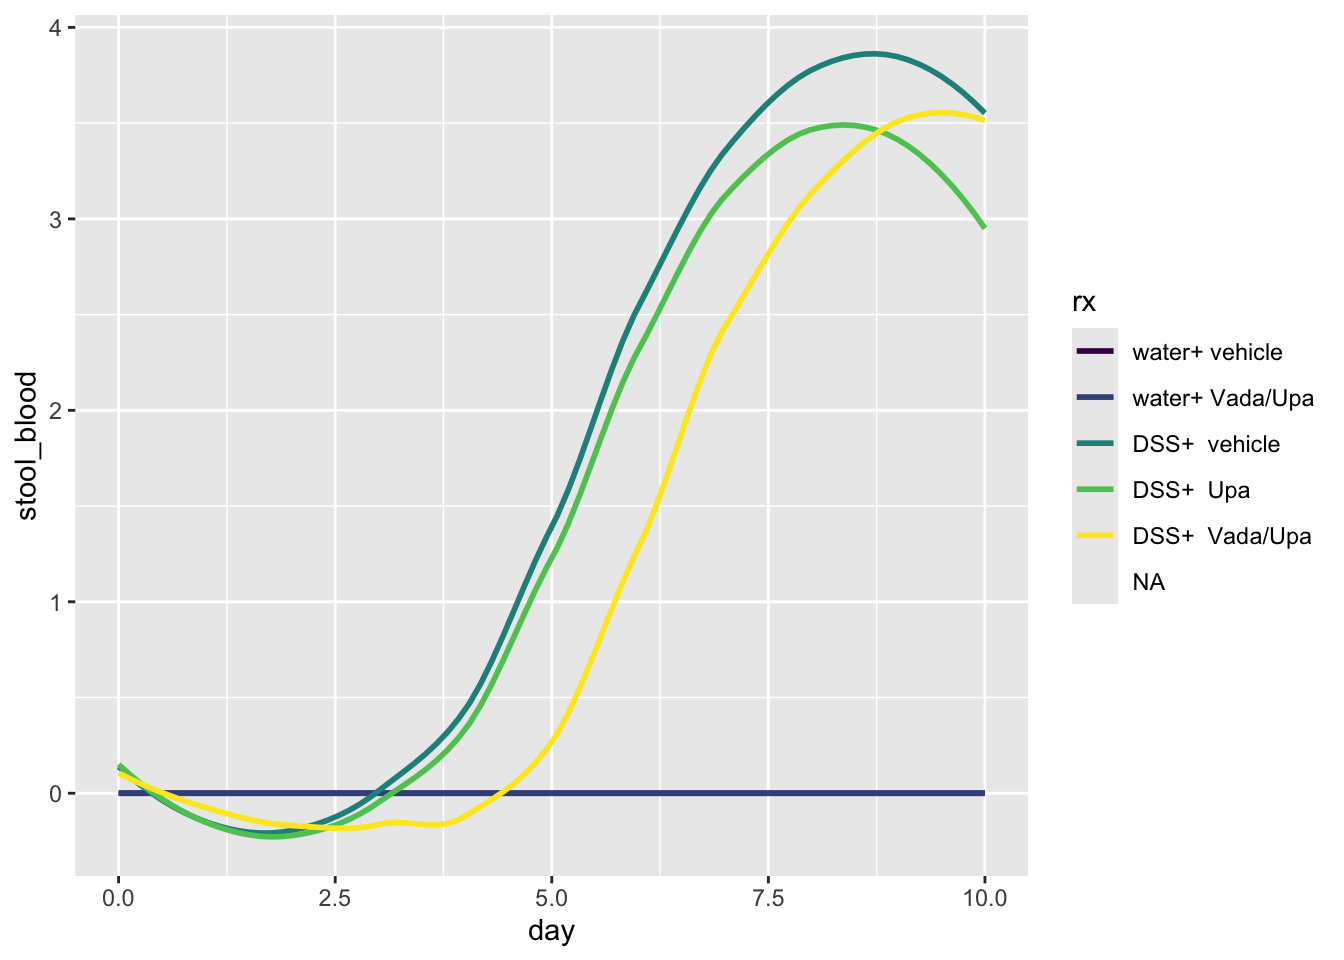
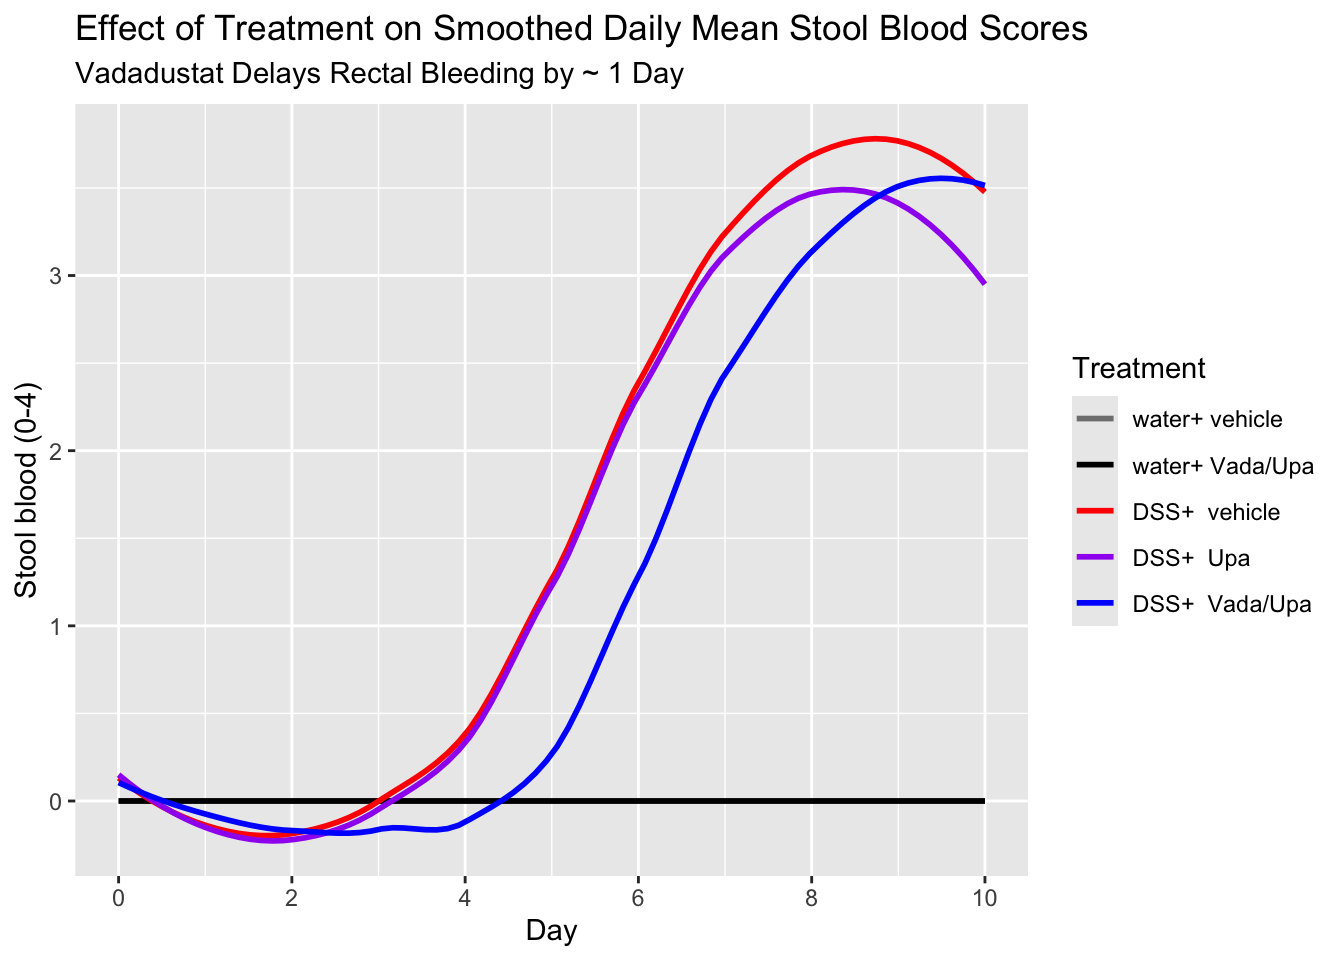
scale updates on laptop

diff --git a/upa-vada-mice2.html b/upa-vada-mice2.html
@@ -174,7 +174,7 @@ The following object is masked from 'package:readr':
 <span id="cb7-6"><a href="#cb7-6" aria-hidden="true" tabindex="-1"></a>                     <span class="st">"DSS+  Vada/Upa"</span>))) <span class="sc">|&gt;</span> </span>
 <span id="cb7-7"><a href="#cb7-7" aria-hidden="true" tabindex="-1"></a>  <span class="fu">rename</span>(<span class="at">ear_tag =</span> mouse)</span>
 <span id="cb7-8"><a href="#cb7-8" aria-hidden="true" tabindex="-1"></a></span>
-<span id="cb7-9"><a href="#cb7-9" aria-hidden="true" tabindex="-1"></a>dat_daily <span class="ot">&lt;-</span> readxl<span class="sc">::</span><span class="fu">read_xlsx</span>(<span class="st">"BW blood sheet.xlsx"</span>) <span class="sc">|&gt;</span> </span>
+<span id="cb7-9"><a href="#cb7-9" aria-hidden="true" tabindex="-1"></a>dat_daily <span class="ot">&lt;-</span> readxl<span class="sc">::</span><span class="fu">read_xlsx</span>(<span class="st">"BW blood data daily.xlsx"</span>) <span class="sc">|&gt;</span> </span>
 <span id="cb7-10"><a href="#cb7-10" aria-hidden="true" tabindex="-1"></a>  janitor<span class="sc">::</span><span class="fu">clean_names</span>() <span class="sc">|&gt;</span> </span>
 <span id="cb7-11"><a href="#cb7-11" aria-hidden="true" tabindex="-1"></a>  <span class="fu">mutate</span>(<span class="at">mouse =</span> <span class="fu">as.factor</span>(mice)) <span class="sc">|&gt;</span> </span>
 <span id="cb7-12"><a href="#cb7-12" aria-hidden="true" tabindex="-1"></a>  <span class="fu">mutate</span>(<span class="at">ear_tag =</span> <span class="fu">as.factor</span>(ear_tag)) <span class="sc">|&gt;</span> </span>
@@ -229,7 +229,14 @@ The following object is masked from 'package:readr':
 <span id="cb10-3"><a href="#cb10-3" aria-hidden="true" tabindex="-1"></a>             <span class="at">group =</span> mouse, <span class="at">color =</span> rx)) <span class="sc">+</span></span>
 <span id="cb10-4"><a href="#cb10-4" aria-hidden="true" tabindex="-1"></a>  <span class="co">#geom_line() +</span></span>
 <span id="cb10-5"><a href="#cb10-5" aria-hidden="true" tabindex="-1"></a>  <span class="co">#geom_point() +</span></span>
-<span id="cb10-6"><a href="#cb10-6" aria-hidden="true" tabindex="-1"></a>  <span class="fu">geom_smooth</span>(<span class="fu">aes</span>(<span class="at">group =</span> rx), <span class="at">se =</span> <span class="cn">FALSE</span>)</span></code><button title="Copy to Clipboard" class="code-copy-button"><i class="bi"></i></button></pre></div>
+<span id="cb10-6"><a href="#cb10-6" aria-hidden="true" tabindex="-1"></a>  <span class="fu">geom_smooth</span>(<span class="fu">aes</span>(<span class="at">group =</span> rx), <span class="at">se =</span> <span class="cn">FALSE</span>) <span class="sc">+</span></span>
+<span id="cb10-7"><a href="#cb10-7" aria-hidden="true" tabindex="-1"></a>  <span class="fu">scale_color_manual</span>(<span class="at">values =</span> <span class="fu">c</span>(<span class="st">"gray50"</span>, <span class="st">"black"</span>, <span class="st">"red"</span>, <span class="st">"purple"</span>, <span class="st">"blue"</span>)) <span class="sc">+</span></span>
+<span id="cb10-8"><a href="#cb10-8" aria-hidden="true" tabindex="-1"></a>  <span class="fu">scale_x_continuous</span>(<span class="at">breaks =</span> <span class="fu">seq</span>(<span class="dv">0</span>,<span class="dv">10</span>, <span class="at">by=</span><span class="dv">2</span>)) <span class="sc">+</span></span>
+<span id="cb10-9"><a href="#cb10-9" aria-hidden="true" tabindex="-1"></a>  <span class="fu">labs</span>(<span class="at">color =</span> <span class="st">"Treatment"</span>,</span>
+<span id="cb10-10"><a href="#cb10-10" aria-hidden="true" tabindex="-1"></a>       <span class="at">x =</span> <span class="st">"Day"</span>,</span>
+<span id="cb10-11"><a href="#cb10-11" aria-hidden="true" tabindex="-1"></a>       <span class="at">y =</span> <span class="st">"Stool blood (0-4)"</span>,</span>
+<span id="cb10-12"><a href="#cb10-12" aria-hidden="true" tabindex="-1"></a>       <span class="at">title =</span> <span class="st">"Effect of Treatment on Smoothed Daily Mean Stool Blood Scores"</span>,</span>
+<span id="cb10-13"><a href="#cb10-13" aria-hidden="true" tabindex="-1"></a>       <span class="at">subtitle =</span> <span class="st">"Vadadustat Delays Rectal Bleeding by ~ 1 Day"</span>)</span></code><button title="Copy to Clipboard" class="code-copy-button"><i class="bi"></i></button></pre></div>
 </details>
 <div class="cell-output cell-output-stderr">
 <pre><code>`geom_smooth()` using method = 'loess' and formula = 'y ~ x'</code></pre>
